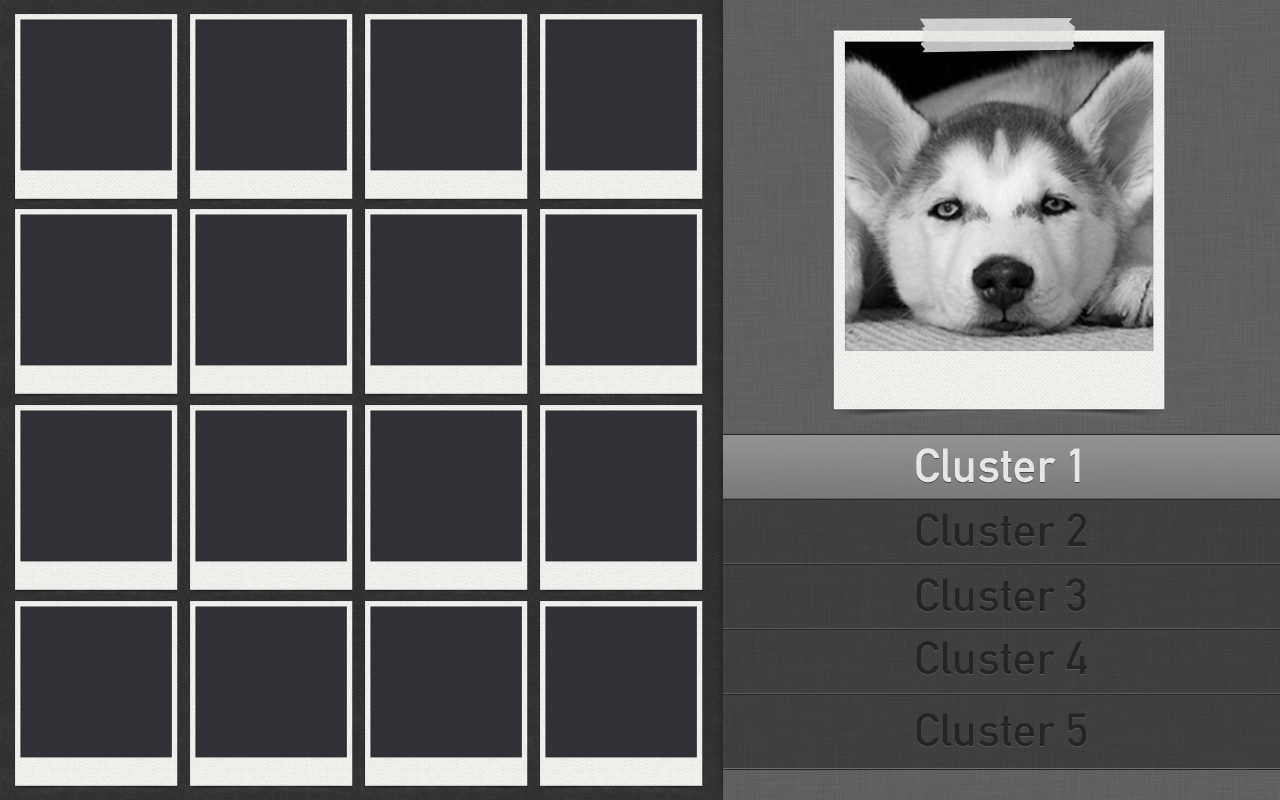
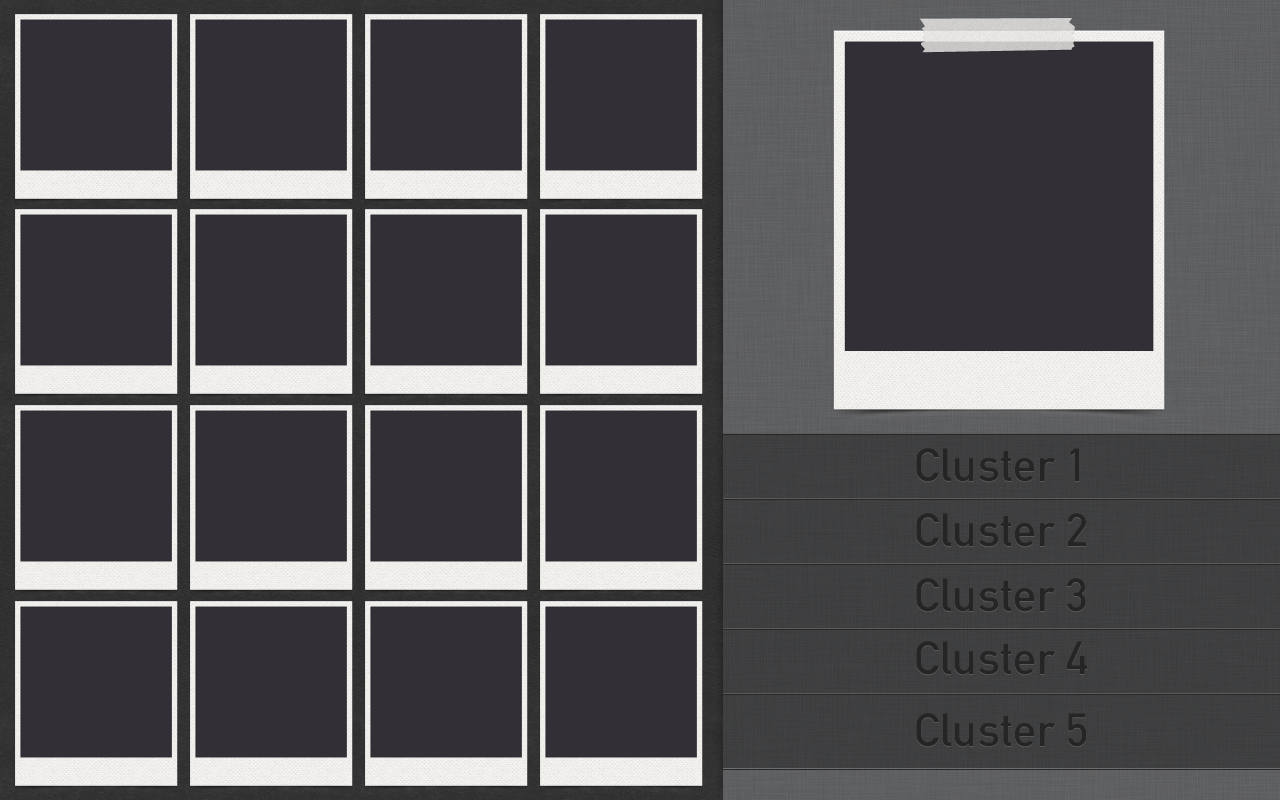
changes

Changed region(s): [[0.6562, 0.0312, 0.9062, 0.4375], [0.5625, 0.5312, 1.0, 0.625]]

diff --git a/ir-project/src/main/java/ir_project/gui/GuiInvoker.java b/ir-project/src/main/java/ir_project/gui/GuiInvoker.java
@@ -86,7 +86,7 @@ public class GuiInvoker {
 		statusbar = new JLabel("image_1 status");
 		statusbar.setFont(new Font("Lucida Grande", Font.PLAIN, 22));
 		statusbar.setComponentOrientation(ComponentOrientation.LEFT_TO_RIGHT);
-		statusbar.setBounds(886, 355, 312, 54);
+		statusbar.setBounds(1079, 381, 174, 54);
 		statusbar.setPreferredSize(new Dimension(150, 150));
 		frmClusteredImageRetrieval.getContentPane().add(statusbar);
 
@@ -267,17 +267,18 @@ public class GuiInvoker {
 		image_16.setBounds(546, 607, 150, 150);
 		image_16.setCursor(new Cursor(Cursor.HAND_CURSOR));
 		frmClusteredImageRetrieval.getContentPane().add(image_16);
-		
+
 		JLabel search_image = new JLabel("search image");
-		image_16.setIcon(new ImageIcon(GuiInvoker.class.getResource("search.jpg")));
-		image_16.setPreferredSize(new Dimension(150, 150));
-		image_16.setIconTextGap(10);
-		image_16.setComponentOrientation(ComponentOrientation.LEFT_TO_RIGHT);
-		image_16.setBorder(null);
-		image_16.setAlignmentY(0.0f);
-		image_16.setBounds(546, 607, 150, 150);
-		image_16.setCursor(new Cursor(Cursor.HAND_CURSOR));
-		frmClusteredImageRetrieval.getContentPane().add(image_16);
+		search_image.setIcon(new ImageIcon(GuiInvoker.class
+				.getResource("search_image.png")));
+		search_image.setPreferredSize(new Dimension(307, 309));
+		search_image.setIconTextGap(10);
+		search_image
+				.setComponentOrientation(ComponentOrientation.LEFT_TO_RIGHT);
+		search_image.setBorder(null);
+		search_image.setAlignmentY(0.0f);
+		search_image.setBounds(846, 42, 307, 309);
+		frmClusteredImageRetrieval.getContentPane().add(search_image);
 
 		JLabel background = new JLabel("16");
 		background.setIcon(new ImageIcon(GuiInvoker.class
